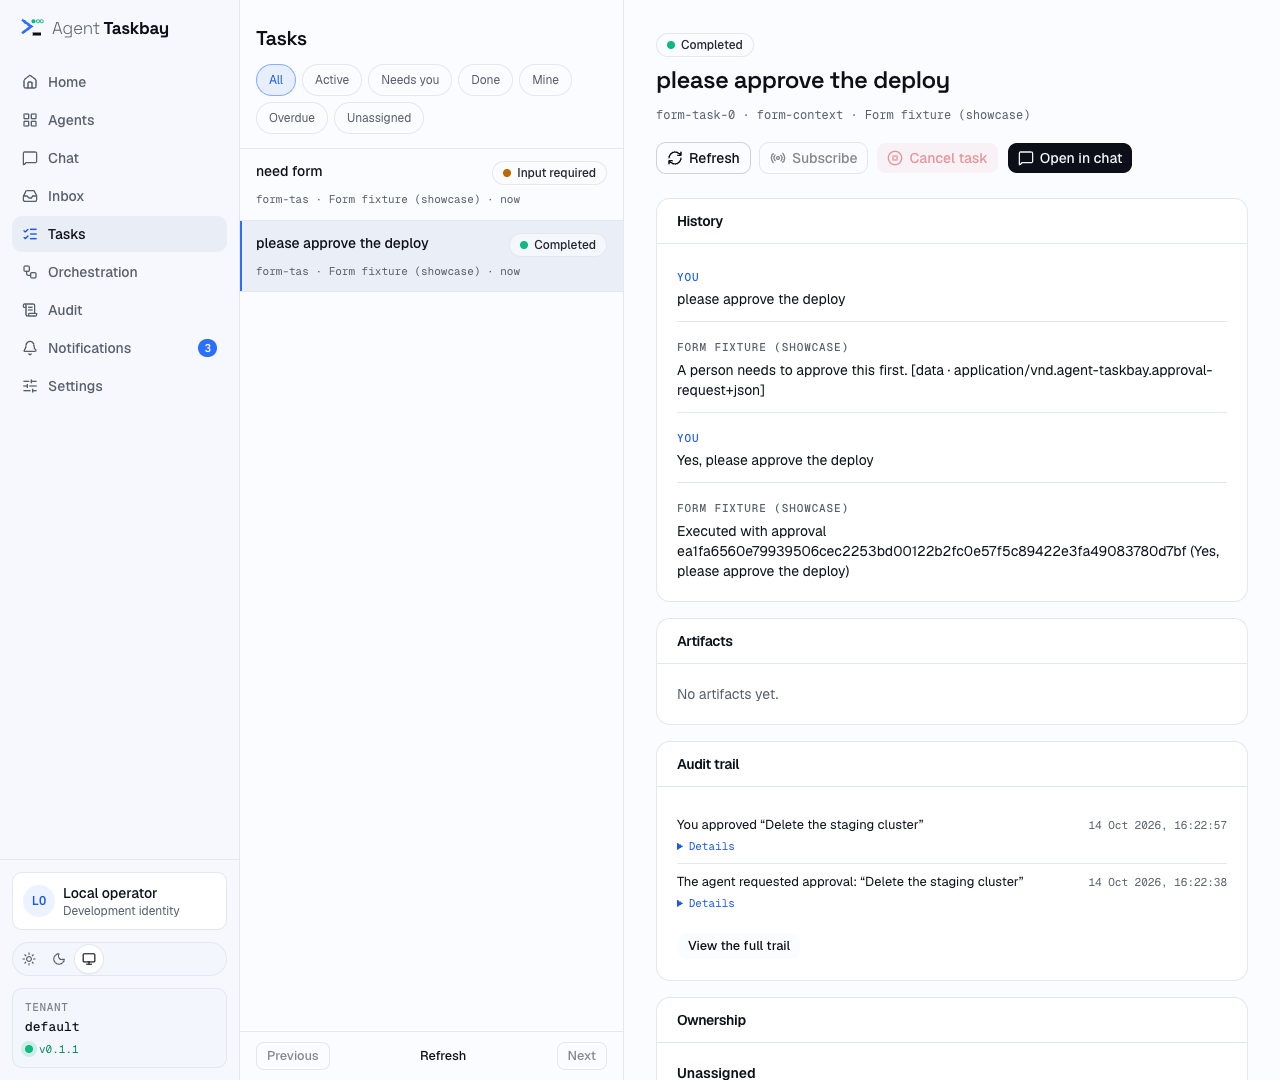
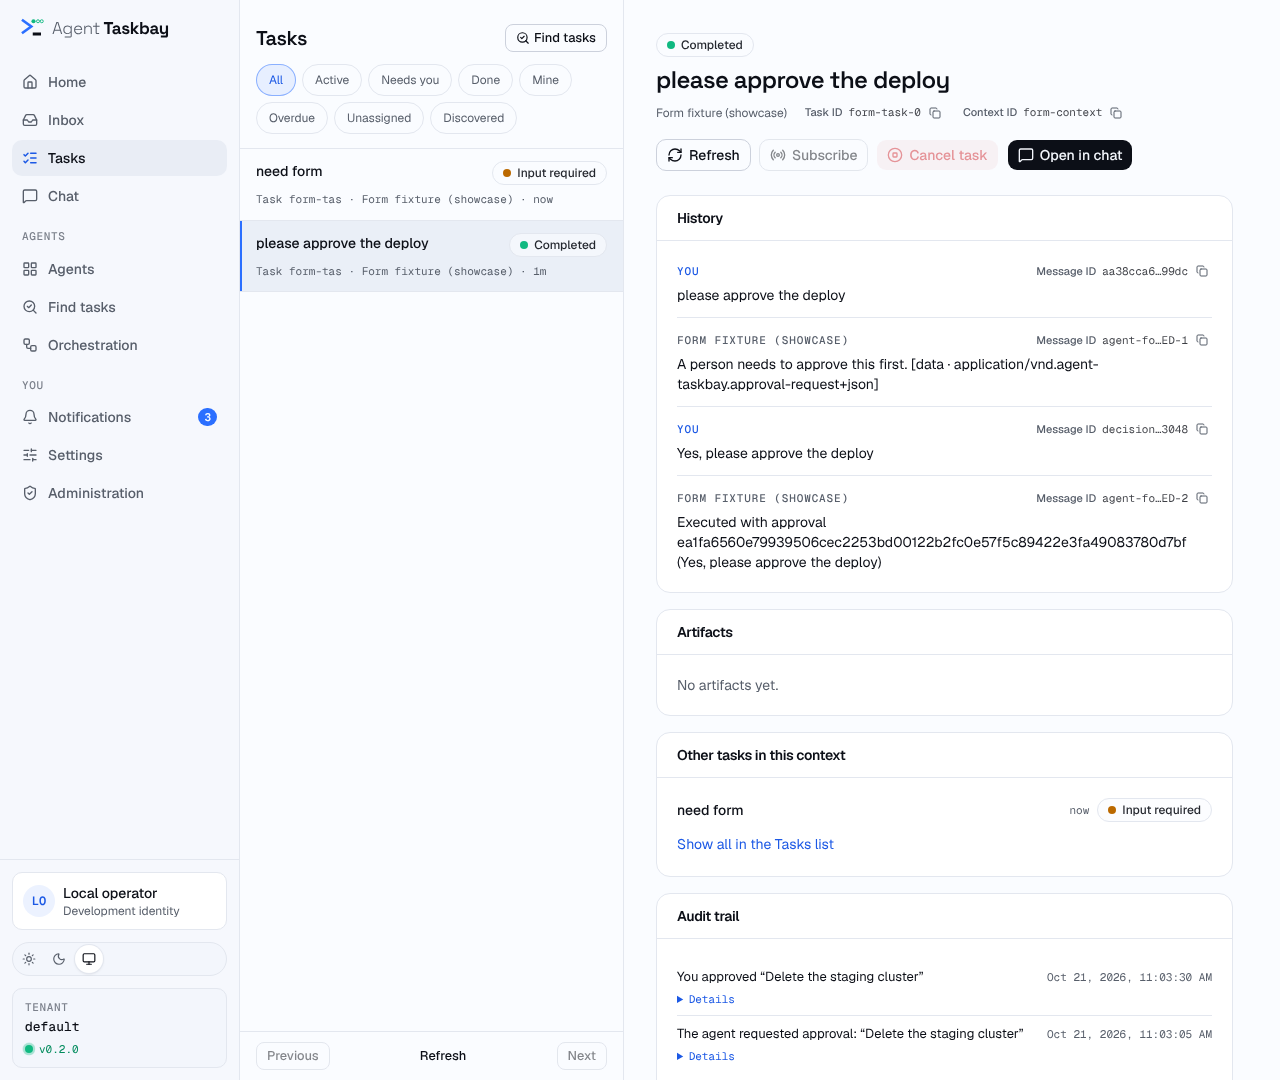
Refresh docs and screenshots after the console redesign
Point audit, Browse tasks and the embedded-database error at their new places, add a threat-model
entry for people management and the database lock, note the informational macOS and Windows CI
job, add an Identifier glossary entry, and regenerate the eight console screenshots from the
current UI.

Claude-Session: https://claude.ai/code/session_01Lu73uozkZGX8gP8LWNbBqt

diff --git a/docs/quickstart.md b/docs/quickstart.md
@@ -127,7 +127,7 @@ The full set of reviewer actions is in [Approvals and ownership](guides/approval
 
 - **Tasks** lists the task with its status timeline, history and identifiers.
 - The approval page lists the decision record and every revision.
-- **Audit** (administrators only) lists each step. The approval page links to the trail for its task.
+- **Administration → Audit trail** (administrators only) lists each step. The approval page links to the trail for its task.
 
 Everything above is stored in the database, not in the browser. With `npx` the state lives in the launcher's data directory (`~/.agent-taskbay` by default). From source it lives in `./.data/pglite` (database) and `./.data/artifacts` (binary content). The state survives a restart: `npm run verify:package` installs the packaged launcher, registers an agent, sends it a command, restarts, and checks that the agent and task are still there.
 
@@ -136,7 +136,7 @@ Everything above is stored in the database, not in the browser. With `npx` the s
 Real agents are often driven by more than one system. The `automation` sample agent plays that: it already has a task, "Rotate staging credentials", waiting for an answer, as if a pipeline had started it.
 
 1. In **Agents**, choose **Add agent**, paste `http://127.0.0.1:4010/automation/card.json`, then **Fetch Agent Card**, **Continue** and **Connect**.
-2. Open the agent and choose **Browse tasks**. You see two tasks, with the agent's question in quotes: "Which environment should I rotate?". Nothing has been stored yet.
+2. Choose **Find tasks** in the sidebar and pick the **Automation fixture** agent (or open the agent and choose **Browse tasks**). You see two tasks, with the agent's question in quotes: "Which environment should I rotate?". Nothing has been stored yet.
 3. Choose **Track** on "Rotate staging credentials". The row says **Tracked**; choose **Open**.
 4. Open the task in chat and reply `staging`. The task completes ("Done. Rotated staging.").
 
@@ -152,7 +152,7 @@ How it works, who may do this and how to switch it off: [Find and steer tasks st
 | The error says the target is not in the allowlist, or blocked | Production builds only reach exact origins in `A2A_ALLOWED_AGENT_ORIGINS`, and block private addresses unless `A2A_ALLOW_PRIVATE_NETWORKS=true`. The launcher sets the private-network option for you in local mode. | See [Connect an agent](guides/connect-an-agent.md#when-it-fails). |
 | `Agent Taskbay is already running for <dir> (pid ...)` | A second launcher on the same data directory. The embedded database allows one owner. | Stop the first process or pass `--data-dir`. |
 | "There is no production build." | The launcher was run from a checkout without a build. | Run `npm run build` first, or use `npx agent-taskbay`. |
-| Database error when starting a second `npm run dev` or script against the same `.data` | PGlite has a single owner process. | Stop the other process. CLIs that touch the database need `--offline-pglite` while it is stopped. |
+| `The embedded database in <dir> is already open in another process` when starting a second `npm run dev` or running a script against the same `.data` | PGlite has a single owner process, and Taskbay refuses a second one instead of sharing the folder. | Stop the other process. CLIs that touch the database need `--offline-pglite` while it is stopped. See [Development setup](contributing/development.md#where-the-database-is). |
 | **Browse tasks** is missing, or says task discovery is off | Your role cannot browse (viewers and skill-only grants cannot), or `A2A_TASK_DISCOVERY=off` | Local mode signs you in as an administrator, so check that variable. |
 | The approval never appears | The message did not contain "approve", so the showcase agent sent a form instead. | Use the exact message above, or open the task and choose **Request approval** to record one yourself. |
 | Approve is disabled or refused: "The requester cannot decide their own request." | Separation of duties is on by default. | Agent-opened requests have no requester, so this only hits approvals you created yourself. Ask another reviewer. |

diff --git a/docs/security/threat-model.md b/docs/security/threat-model.md
@@ -34,6 +34,8 @@ Each row names the control and where it is exercised. "Evidence" points at tests
 | Restarting an instruction exposes private artifact URLs or loses file inputs | Before cancellation, the browser restores bytes using the existing authenticated artifact download route and its current task grants. External URLs remain references; restored input is bounded by the command body limit. Missing or unauthorized files stop the restart before cancellation. | `restart-task.test.ts`, `verify-steering-http.mjs`, and existing artifact-access HTTP tests. No new artifact endpoint or credentials are exposed. |
 | Cross-tenant data bleed | The organization comes from the local membership, carried per request in async-local storage, not from request input. | `scoped-security.db.test.ts`: foreign tasks, commands, content and artifacts are denied. |
 | Cross-site command submission | Exact `Origin` match and `Sec-Fetch-Site` rejection on state-changing requests. Reads do not submit commands. | Wrong or missing `Origin` is rejected in the production HTTP run. In development, loopback aliases on the same port are accepted. |
+| An administrator account is misused to add people, raise roles or lock the organization out | Adding, changing and deactivating people are administrator-only API actions (`provisionMember`, `changeRole`, `deactivateMember`, `reactivateMember`). Adding uses the configured OIDC issuer and an exact subject, never a browser-supplied issuer. An administrator cannot change or deactivate their own membership, so one always remains. Deactivation deletes the person's sessions at once. Every change is audited with the actor (`member.*`). | `people.db.test.ts` covers the self-change guard, session removal, cross-organization refusal and audit. Local development mode refuses `provisionMember`. An administrator can still promote another person to administrator by design. |
+| Two processes open the same embedded database and corrupt it | PGlite has no lock of its own. Taskbay takes a `<folder>.lock` file for as long as a database is open and refuses a second live process; a lock from a dead process is taken over. A damaged folder fails the open with an actionable error and is never deleted or moved automatically. | `pglite-guard.db.test.ts`. A reused process number can show a false refusal; the message says to delete the lock file. PostgreSQL is not affected. |
 | Access without a grant; role escalation | Explicit grants to a member, team or the organization, for a whole agent or one skill. Viewers cannot operate even with an "operate" grant. Task queries are filtered in SQL before pagination. | Grant, disabled-team and revoke tests in `scoped-security.db.test.ts`. A provider "admin" claim cannot raise a viewer. Administrators have full organization access by design. |
 | A skill grant used to do unrestricted work | Skill-only sends need the agent to advertise and enforce the [skill routing extension](../reference/extensions/skill-routing.md). The server picks the skill, starts a new context and checks follow-ups. | Generic, private-context and hidden-reference sends are denied in tests. A grant does not constrain an agent that ignores the extension. Enable it only for agents you have reviewed. |
 | Credential theft from the database; substitution; use after revoke | Credentials are encrypted (JWE) with the organization and agent bound into the payload and are valid only for their configured origins. Key rotation is supported. Missing keys, tampering and revoked bindings fail closed. | `scoped-security.db.test.ts` on both database profiles: tampering, cross-organization resolve, rotation, revoke. Protecting the key ring on the host is an operator duty. |

diff --git a/docs/reference/compatibility.md b/docs/reference/compatibility.md
@@ -25,7 +25,7 @@ the repository's own CI runs; nothing here is a claim about other versions or en
 | A2A SDK | `@a2a-js/sdk` `^1.3.0` (locked at `1.3.0`) | `package.json`, `package-lock.json` |
 | Web framework | Next.js `16.3.6`, React `19.3.0` | `package.json` |
 | ORM | MikroORM `7.2.3` | `package.json` |
-| Operating systems | CI runs `ubuntu-latest` only. The launcher has code to open a browser on macOS, Windows and Linux; Windows is not tested. | `ci.yml`, `bin/agent-taskbay.mjs` |
+| Operating systems | The full suite runs on `ubuntu-latest`. An informational `platforms` job also runs lint, unit tests, the embedded-database lock and people tests and the build on macOS and Windows; it may fail without blocking a merge, so treat those systems as unverified until it has been green. The launcher has code to open a browser on macOS, Windows and Linux. | `ci.yml`, `bin/agent-taskbay.mjs` |
 | Browsers | Not verified. The repository declares no browser support list and has no cross-browser test suite. | `package.json` |
 
 `npm run check` is what CI runs: lint, unit tests, database tests (PGlite, plus PostgreSQL when `A2A_TEST_POSTGRES_URL` is set), migrations, schema-drift check, production build, and the HTTP

diff --git a/docs/guides/teams-and-grants.md b/docs/guides/teams-and-grants.md
@@ -89,7 +89,7 @@ Use `"skillId": null` for the whole agent. For everyone, use `"subjectType": "or
 2. Ask a team member to sign in and open **Agents**. They see `Billing agent` with the description `Restricted skill access` and only the `Refunds` skill. The other skills, and the agent's own description, are hidden.
 3. When they start a task with that agent, the chat shows a **Skill** picker with only the granted skills. Taskbay sends the skill id to the agent in the skill-routing metadata.
 4. Their task lists show only tasks recorded for that skill.
-5. The **Audit** page records each change: `team.created`, `team.addTeamMember`, `access.granted`.
+5. **Administration → Audit trail** records each change: `team.created`, `team.addTeamMember`, `access.granted`.
 
 Browsing an agent's tasks and tracking them need an `operate` grant on the **whole** agent (or the administrator role). A skill grant never allows it, and a person with only skill grants never sees tracked or discovered tasks ([Task discovery](connect-an-agent.md#task-discovery)).
 

diff --git a/docs/reference/glossary.md b/docs/reference/glossary.md
@@ -83,6 +83,9 @@ A rule that gives a subject `read` or `operate` permission on one agent (agent g
 
 ## I to P
 
+**Identifier (ID)**\
+A value that names one thing. The console labels each one (Task ID, Context ID, Message ID, Artifact ID, Referenced task, Call ID, Taskbay ID, Approval ID, Command ID, Digest), says whether the A2A protocol defines it or only Taskbay keeps it, and offers a copy icon. See [Identifiers](../guides/use-the-console.md#identifiers).
+
 **Inbox**\
 One list of the tasks and approvals you may read, across agents. Its views are **Needs you** (the default), **Mine**, **Overdue**, **Active**, **Done** and **All**, with **Show** and **Risk** filters. See [Approvals and ownership](../guides/approvals-and-ownership.md#find-work-the-inbox).
 

diff --git a/README.md b/README.md
@@ -81,7 +81,7 @@ Open it, review the proposed action, choose **Approve**, and confirm.
 ![Pending approval for Delete the staging cluster, marked high risk, with the exact action under review](docs/images/approval.png)
 
 **What you should see:** the approval becomes `approved`, the exact content you reviewed is sent to the agent once, and the task moves to
-completed. The approval page shows "Delivered to the agent; task is now" followed by the task state, and **Audit** lists every step.
+completed. The approval page shows "Delivered to the agent; task is now" followed by the task state, and **Administration → Audit trail** lists every step.
 
 ![The same approval after it was delivered once, with the task completed](docs/images/approval-delivered.png)
 

diff --git a/docs/guides/find-and-steer-tasks-started-elsewhere.md b/docs/guides/find-and-steer-tasks-started-elsewhere.md
@@ -14,7 +14,7 @@ What Taskbay does, in one paragraph: it uses **the agent's own credential** to a
 
 ## Find a task and track it
 
-1. Open **Agents**, then the agent. In the **Task discovery** card choose **Browse tasks**.
+1. Choose **Find tasks** in the sidebar and pick the agent. (From the agent page, **Browse tasks** in the **Task discovery** card opens the same page.)
 2. Narrow the list with **State** (for example *Needs input*) or **Context ID**. Each row shows the title or ID, the state, how long ago it changed and, in quotes, the first line of what the agent last said.
 3. Choose **Track** on the task you want. The row now says **Tracked**; **Open** takes you to the task.
    If you know the ID, paste it under **Track by task ID** instead.

diff --git a/docs/reference/cli.md b/docs/reference/cli.md
@@ -151,7 +151,7 @@ npm run db:projections:rebuild -- --offline-pglite
 
 | Flag | Meaning |
 | --- | --- |
-| `--offline-pglite` | Required when the profile is PGlite, because only one process may open the database. Stop the web server first. Not needed with PostgreSQL. |
+| `--offline-pglite` | Required when the profile is PGlite, because only one process may open the database. Stop the web server first, or the command stops with "already open in another process". Not needed with PostgreSQL. |
 | `--organization <uuid>` | Organization to rebuild. Default: the organization with slug `local`. |
 | `--task <uuid>` | Rebuild only this local task ID. |
 

diff --git a/docs/guides/use-the-console.md b/docs/guides/use-the-console.md
@@ -16,7 +16,7 @@ The console is the web app you open in the browser. The sidebar lists its screen
 | Read agents, tasks, conversations and notifications | All agents | Granted agents | Granted agents |
 | Send messages, answer forms, cancel tasks | Yes | With an "operate" grant | No |
 | Add or remove agents | Yes | No | No |
-| Organization-wide **Audit**, CSV export | Yes | No | No |
+| Organization-wide **Audit trail**, CSV export | Yes | No | No |
 | Read one task's audit trail | Yes | With read access | With read access |
 | **Administration** (people, teams, agent access, policies) | Yes | Not shown | Not shown |
 

diff --git a/docs/guides/configuration-recipes.md b/docs/guides/configuration-recipes.md
@@ -124,7 +124,7 @@ curl -i http://localhost:3002/api/auth/session
 
 A `200` with `"mode":"development"` means you are signed in as the local administrator. Open `http://localhost:3002/agents`; the sample agent is listed.
 
-Only one process may open the PGlite directory. Stop `npm run dev` before running a script against it with `--offline-pglite`.
+Only one process may open the PGlite directory, and Taskbay refuses a second one with "already open in another process". Stop `npm run dev` before running a script against it with `--offline-pglite`.
 
 ## 3. Single server on PostgreSQL with OIDC
 
